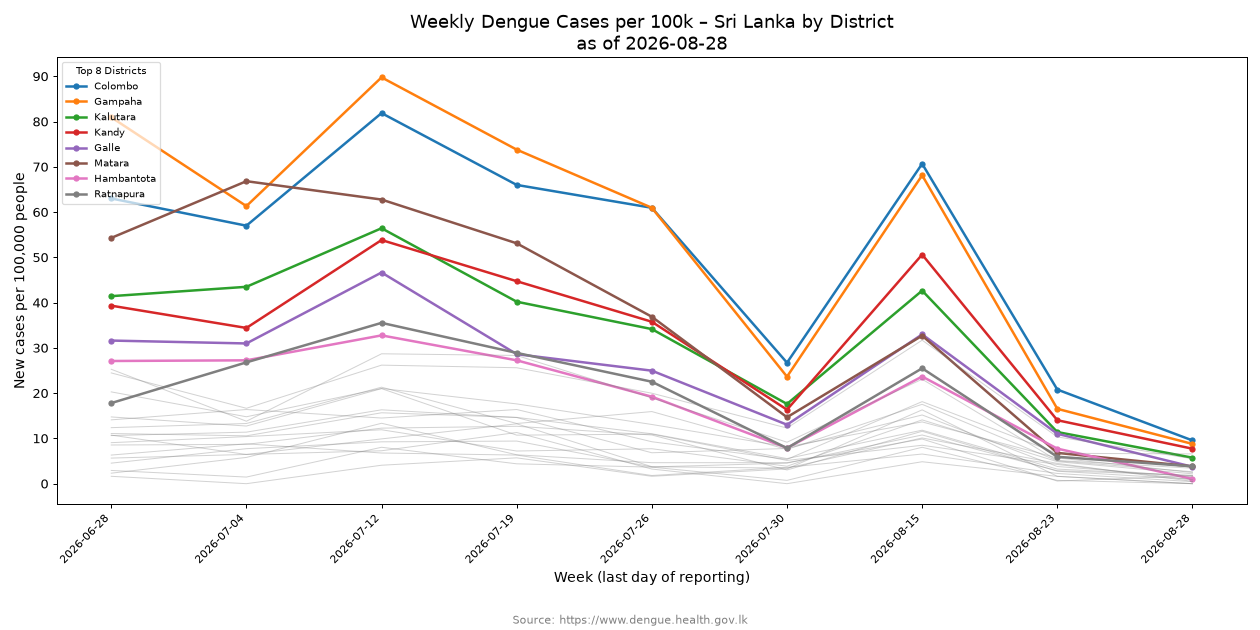
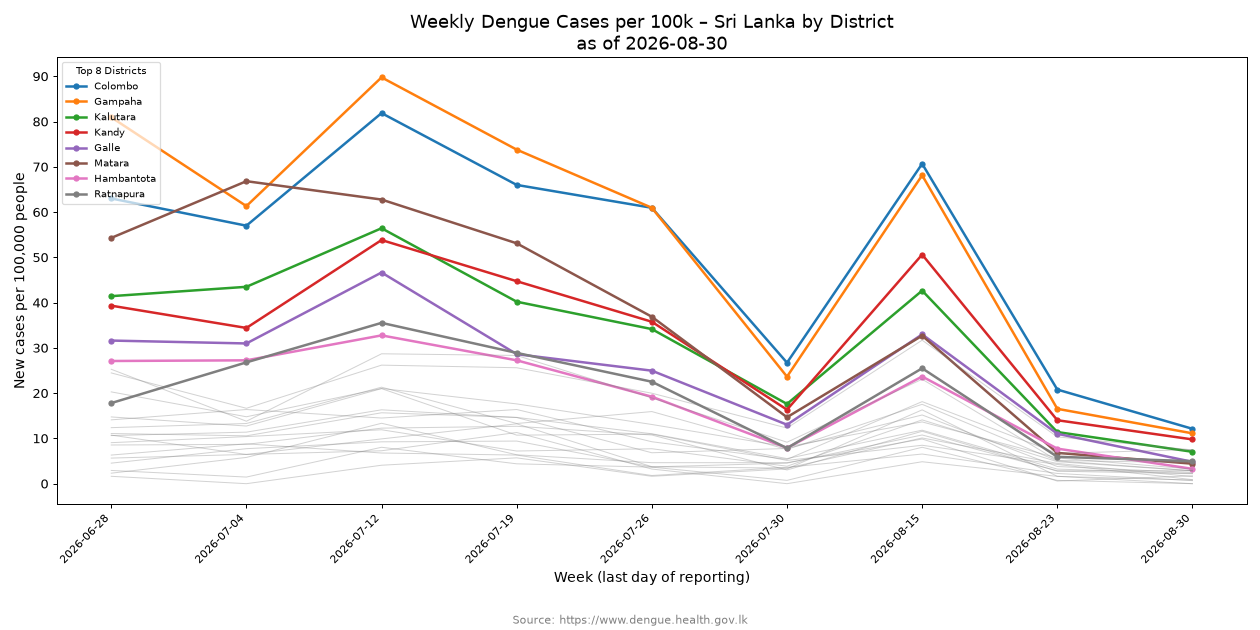
🤖 [pipeline.yml] 2026-08-31-0846

Changed region(s): [[0.8357, 0.6032, 0.9595, 0.7841], [0.5571, 0.0603, 0.5881, 0.0905]]

diff --git a/README.md b/README.md
@@ -166,6 +166,7 @@ As of 2026-08-23
 
 ### [National Dengue Control Unit - Daily Update](data/NDCUDaily)
 
+- [2026-08-30](data/NDCUDaily/2026/2026-08/2026-08-30)
 - [2026-08-28](data/NDCUDaily/2026/2026-08/2026-08-28)
 - [2026-08-27](data/NDCUDaily/2026/2026-08/2026-08-27)
 - [2026-08-26](data/NDCUDaily/2026/2026-08/2026-08-26)
